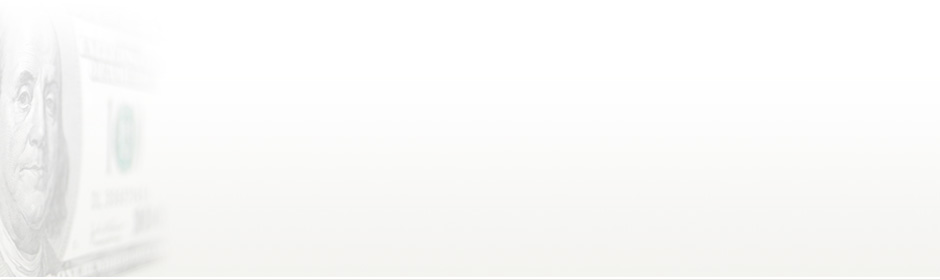
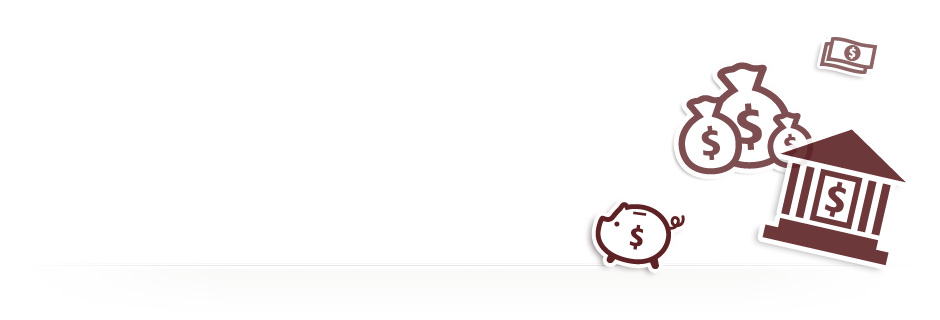
new 2012 changes

diff --git a/media/styles/clearspending.css b/media/styles/clearspending.css
@@ -7,10 +7,10 @@
 body,div,dl,dt,dd,ul,ol,li,h1,h2,h3,h4,h5,h6,pre,form,fieldset,input,textarea,optgroup,button,p,blockquote,th,td{margin:0;padding:0;}h1,h2,h3,h4,h5,h6{font-size:100%;font-weight:normal;}table{border-collapse:collapse;border-spacing:0;}caption,th{text-align:left;}ol,ul{list-style:none;}fieldset,img{border:0;}input,textarea,select,optgroup,option,button{font-family:inherit;font-size:100%;}button,input {width: auto;overflow: visible;}optgroup,address,caption,cite,code,dfn,em,strong,th,var{font-style:normal;font-weight:normal;}q:before,q:after{content:'';}abbr,acronym {border:0;}
 dl li{list-style: none;}
 
-a:link { outline: none; color: #68a31d; font-weight: bold; text-decoration: none;}
-a:visited { outline: none; color: #68a31d; font-weight: bold; text-decoration: none;}
-a:hover { outline: none; color: #636466; font-weight: bold; text-decoration: none;}
-a:active { outline: none; color: #68a31d; font-weight: bold; text-decoration: none;}
+a:link { outline: none; color: #dec703; font-weight: bold; text-decoration: none;}
+a:visited { outline: none; color: #dec703; font-weight: bold; text-decoration: none;}
+a:hover { outline: none; color: #cbb102; font-weight: bold; text-decoration: none;}
+a:active { outline: none; color: #dec703; font-weight: bold; text-decoration: none;}
 
 body {
 	color: #6C6764;
@@ -19,47 +19,54 @@ body {
 }
 
 .clear { clear: both;}
+.clearfix { clear: right; }
 
 p#shortedText { width: 580px;}
 
 #pageBackground { width: 100%; background: #F8F6EC url(../images/below_green_bg.png) top left repeat-x; border-bottom: 23px solid #7B614E; padding: 30px 0 50px; }
 
-h2 { width: 268px; height: 44px; margin-bottom: 25px; }
-h2 a { background: url(../images/clearspending-logo.png) top left no-repeat; width: 311px; height: 52px; display: block; text-indent: -9999em; }
+h2 { width: 354px; height: 59px; margin-bottom: 20px; padding-top: 35px; float: left; }
+h2 a { background: url(../images/logo.png) top left no-repeat; width: 354px; height: 59px; display: block; text-indent: -9999em; }
 
-#contentWrapper #mainContainer { width: 940px; background: #FFF; border-radius: 6px; -moz-border-radius: 6px; -webkit-border-radius: 6px; margin: -90px auto 80px; border: 1px solid #ddd7d7; padding: 0;}
+#contentWrapper #mainContainer { width: 940px; margin: 0 auto 80px; padding: 0;}
 #pageMain { margin: 35px 25px 50px; }
 
-#header { width: 940px; margin: 0 auto;}
+#header { width: 940px; margin: 0 auto; margin-bottom: 50px; }
 
-#ltColumn, .ltColumn { width: 565px; margin-right: 30px; float: left;}
-#rtColumn, .rtColumn { width: 265px; margin-left: 30px; float: left;}
+.module { margin-bottom: 50px; }
 
-#nav { width: 940px; height: 35px; background: #85BE3D url(../images/bg_nav.jpg) bottom left repeat-x; -moz-border-radius-topleft: 5px; -moz-border-radius-topright: 5px; -webkit-border-top-left-radius: 5px; -webkit-border-top-right-radius: 5px;}
-#nav li {  float: left;  text-transform: uppercase; width: 115px;}
-#nav li a { color: #F8F6EC; text-decoration: none; font-weight: normal; padding: 8px 0; display: block; text-align: center; width: 115px;}
-#nav li a:hover, body.scorecard #nav li#scorecard a, body.background #nav li#background a, body.analysis #nav li#analysis a, body.methodology #nav li#methodology a, body.media #nav li#media a, body.corrections #nav li#corrections a, body.resources #nav li#resources a, body.feedback #nav li#feedback a, body.summary #nav li#summary a  { color: #fff; background: url(../images/nav_arrow.png) center 27px no-repeat; font-weight: bold; padding: 9px 0 7px;}
+#ltColumn, .ltColumn { width: 555px; margin-right: 25px; float: left;}
+#rtColumn, .rtColumn { width: 285px; margin-left: 25px; float: left;}
 
-#featureBox { background: url(../images/bg_featureBox.jpg) bottom left no-repeat; padding-top: 35px; margin-bottom: 65px;}
-#featureNumber { color: #80C2D6; margin-left: 50px; font-size: 400%; font-weight: bold; display: block; line-height: 50px;}
-#featureTitle { color: #9ec9d6; font-size: 150%; margin-left: 425px; margin-top: -5px; display: block; margin-bottom: 35px;}
-#featureBody { margin-left: 175px;}
+#nav { width: 940px; height: 35px; background: #85BE3D url(../images/bg_nav.jpg) bottom left repeat-x; }
+#nav li {  float: left;  text-transform: uppercase; padding: 0 20px; background: url(../images/bg_navLine.png) right 5px no-repeat; }
+#nav li.last { background: none; }
+#nav li a { color: #F8F6EC; text-decoration: none; font-weight: normal; padding: 8px 0; display: block; text-align: center; }
+#nav li:hover, #nav li:hover a, body.scorecard #nav li#scorecard, body.scorecard #nav li#scorecard a, body.background #nav li#background, body.background #nav li#background a, body.analysis #nav li#analysis, body.analysis #nav li#analysis a, body.methodology #nav li#methodology, body.methodology #nav li#methodology a,  body.media #nav li#media, body.media #nav li#media a, body.corrections #nav li#corrections, body.corrections #nav li#corrections a, body.resources #nav li#resources, body.resources #nav li#resources a, body.feedback #nav li#feedback, body.feedback #nav li#feedback a, body.summary #nav li#summary, body.summary #nav li#summary a  { color: #5e9913; background-color: #fff; }
 
-#featureBox h3 { margin-bottom: 15px;}
-#featureBox p { font-size: 115%; line-height: 23px; padding-right: 30px; padding-bottom: 20px; margin-bottom: 0;}
+#subnav { border-bottom: 1px solid #f3f2f2; }
+#subnav li { padding: 12px 20px 8px; float: left;  }
+#subnav li a { color: #807c77; font-weight: normal;  }
+#subnav li:hover a { color: #807c77; font-weight: bold;  }
+#subnav li:hover { border-bottom: 3px solid #f3f2f2;  }
+
+#featureBox { background: url(../images/bg_featureBox.jpg) center bottom no-repeat; min-height: 320px; }
+#featureBox h3 { margin-bottom: 15px; color: #645253; font-size: 380%; line-height: 50px; }
+#featureBox h3 span { display: block; font-weight: 700; }
+#featureBox p { font-size: 135%; line-height: 30px; padding-right: 30px; margin-bottom: 100px; color: #9a9592; }
+
+#scorecardPromo { background: url(../images/bg_scorecardPromo.jpg) top left no-repeat; padding: 50px 10px 0; text-align: center; height: 240px; }
+#scorecardPromo a { background: url(../images/btn_viewScorecard.png) center top no-repeat; width: 252px; height: 66px; margin: 0 auto;   }
 
 a#scorecardBtn { display: block; width: 322px; height: 45px; background: url(../images/btn_results.png) top left no-repeat; text-indent: -9999em; position: relative; top: 20px;}
 
-h3 { color: #43413f; font-size: 180%; margin-bottom: 20px; text-transform: uppercase; line-height: 28px;}
+h3 { color: #645253; font-size: 200%; margin-bottom: 25px; line-height: 30px; }
+h4 { font-size: 170%; line-height: 28px; font-weight: normal; margin-bottom: 20px; }
 #summary h3 { text-transform: none;}
 #homeltColumn h3, #homertColumn h3  { text-transform: capitalize;}
 
-h4 { color: #636466; font-size: 130%; font-weight: bold; line-height: 130%; margin-bottom: 15px; margin-top:25px;}
 #rtColumn h4 { margin-top: 0px;}
 h5 { margin-bottom: 10px; font-weight: bold; color: #636466;}
-
-#homeltColumn { width: 345px; margin-right: 25px; float: left;}
-#homertColumn { float: left; width: 495px; margin-left: 25px;}
 
 #reporting { background: url(../images/header_reporting.jpg) top center no-repeat; padding-top: 55px; margin-bottom: 40px;}
 #metrics { background: url(../images/header_metrics.jpg) top center no-repeat; padding-top: 55px;}
@@ -107,7 +114,7 @@ span#keyTitle, ul#bottom-legend { float: left;}
 span#keyTitle { padding-top:2px; font-weight: bold; margin-right: 10px;}
 #agencyKey { margin-top: 15px;}
 
-.tip { font-family: Georgia, Times, "Times New Roman", serif; font-style: oblique; font-size: 95%;}
+.tip { font-family: Georgia, Times, "Times New Roman", serif; font-style: oblique; font-size: 95%; margin-bottom: 20px; }
 
 #graph { float: left; }
 .graph { float: left; }
@@ -173,7 +180,7 @@ th..headerSortUp:nth-child(1), th.headerSortUp:nth-child(2) { background: url(..
 #pageMain a.name:hover { text-decoration: underline; }
 
 /*buttons*/
-button { text-indent: -9999em; display: block; height: 45px; cursor: pointer; border: none;}
+button, .textReplace { text-indent: -9999em; display: block; height: 45px; cursor: pointer; border: none;}
 .submit { width: 124px; background: url(../images/btn_submit.jpg) top left no-repeat; margin-left: 120px; margin-top: 30px;}
 .okBtn { width: 50px; height: 33px; background: url(../images/btn_ok.jpg) top left no-repeat; margin-right: 25px; margin-top: 25px;}
 .noShowBtn { width: 159px; height: 33px; background: url(../images/btn_dontShow.jpg) top left no-repeat; margin-top: 25px;}
@@ -280,7 +287,7 @@ ol#cite li { margin-bottom: 2px;  }
 #summary .legend li { display: inline-block; text-align: center; margin: 5px 0 5px 15px;}
 #summary img { margin-top: 20px;}
 
-#updated { text-indent: -9999em; display: block; background: url(../images/img_updated.png); width: 90px; height: 90px; position: relative; top: -100px; left: 340px; }
+#updated { text-indent: -9999em; display: block; background: url(../images/bg_2012badge.png); width: 127px; height: 105px; float: right; margin-top: -30px}
  
 .spendingOverTime img { float: left; margin-right: 15px;}
 #summary .spendingOverTime .legend { float: left; width: 120px; margin-top: 25px; }

diff --git a/templates/base.html b/templates/base.html
@@ -11,6 +11,8 @@
     <script type="text/javascript" src="{{ STATIC_URL }}scripts/jquery.tablesorter.min.js"></script>
     <script type="text/javascript" src="{{ STATIC_URL }}scripts/jquery.cookie.js"></script>
     <script type="text/javascript" src="{{ STATIC_URL }}scripts/clearspending.js"></script>
+    <script type="text/javascript" src="//use.typekit.net/ktu4xpo.js"></script>
+    <script type="text/javascript">try{Typekit.load();}catch(e){}</script>
     <!-- added by timball  Tue Sep  7 15:12:38 UTC 2010 -->
    <script type="text/javascript">
 
@@ -51,10 +53,8 @@
 <div id="contentWrapper">
     <div id="header">
         <h2><a href="{% url clearspending-index %}"><big>Clearspending</big><small>Making Sense of the Federal Checkbook</small></a></h2>
-        <div id="updated">Updated for 2011!</div>
-    </div>
-    <div id="mainContainer">
-        <div id="nav">
+        <span id="updated">2012 Report</span>
+        <div id="nav" class="clear">
             <ul>
                 <li id="summary"><a href="{%url summary %}">Summary</a></li>
                 <li id="scorecard"><a href="{% url scorecard-index %}">Scorecard</a></li>
@@ -63,47 +63,40 @@
                 <li id="methodology"><a href="{% url methodology %}">Methodology</a></li>
                 <li id="media"><a href="{% url media-index %}">Media</a></li>
                 <li id="resources"><a href="{% url resources %}">Resources</a></li>
-                <li id="feedback"><a href="{% url feedback %}">Feedback</a></li>
+                <li class="last" id="feedback"><a href="{% url feedback %}">Feedback</a></li>
             </ul>
         </div>
-
+        <div id="subnav" class="clear">
+            <ul>
+                <li><a href="#">subnav #1</a></li>
+                <li><a href="#">subnav #1</a></li>
+                <li><a href="#">subnav #1</a></li>
+            </ul>    
+        </div>    
+    </div>
+    <div id="mainContainer" class="clear">
             {% block content %}
             {% endblock content %}
     </div>
-<footer id="mainFooter"> 
-                <div id="footerContent"> 
-                        <div id="contact"> 
-                            <h2>Contact Us</h2> 
-                            <address class="vcard"> 
-                                <span class="fn org"> 
-                                    <a href="http://sunlightfoundation.com" class="url">Sunlight Foundation</a> 
-                                </span> 
-                                <span class="adr"> 
-                                    <span class="street-address">1818 N Street NW</span> 
-                                    <span class="extended-address">Suite 300</span> 
-                                    <span class="locality">Washington</span>,
-                                    <span class="region" title="District of Columbia">DC</span> 
-                                    <span class="postal-code">20036</span> 
-                                </span> 
-                            <span class="tel">202-742-1520</span> 
-                                <a href="callto:+12027421520" class="tel-skype">Call with Skype</a> 
-                            </address> 
-                    </div> 
-                    <div id="aboutSunlight"> 
-                            <h2>About Sunlight</h2> 
-                            <ul> 
-                                <li><a href="/about/">Our Mission</a></li> 
-                                <li><a href="/about/board/">Board &amp; Advisory Board</a></li> 
-                                <li><a href="/about/funding/">How We're Funded</a></li> 
-                                <li><a href="/people/">Our Team</a> and <a href="/jobs/">Jobs</a></li> 
-                            </ul> 
-                        </div> 
-                        <div id="privacyPolicy"> 
-                                <p>Our <a href="/legal/privacy/">privacy policy</a> details how personally identifiable information that is collected on our web sites is handled. Read our <a href="/legal/terms/">terms of service</a>.</p> 
-                            <p>This work by <a href="http://sunlightfoundation.com">Sunlight Foundation</a>, unless <a href="/colophon/">otherwise noted</a>, is licensed under a <a rel="license" href="http://creativecommons.org/licenses/by/3.0/us/">Creative Commons Attribution 3.0 United States License</a>.</p> 
-                        </div> 
-                        <div class="clear"></div> 
-                </div> 
-            </footer>
+    <div class="sf-footerWrapper">
+        <div class="sf-footer container">
+            <div class="row">
+                <div class="span6 signup span-divider">
+                    <h4>Like this Project and Want to Discover Others Like It?</h4>
+                    <span class="tip">Join the Sunlight Foundation's open government community to learn more</span>
+                    <form action="/subscribe/" method="post" id="sfapp-subscribe-form" class="form-inline">
+                        {% csrf_token %}
+                        <input type="text" name="email" placeholder="your email address">
+                        <input type="text" name="zipcode" placeholder="your zip code">
+                        <button type="submit" class="btn btn-sunlight">Sign Up</button>
+                    </form>
+                </div>
+                <div class="span6 terms">
+                    <p>Our <a href="http://sunlightfoundation.com/legal/privacy/">privacy policy</a> details how personally identifiable information that is collected on our web sites is handled. Read our <a href="http://sunlightfoundation.com/legal/terms/">terms of service</a>.</p>
+                    <p>This work by <a href="http://sunlightfoundation.com">Sunlight Foundation</a>, unless <a href="http://sunlightfoundation.com/colophon/">otherwise noted</a>, is licensed under a <a href="http://creativecommons.org/licenses/by/3.0/us/">Creative Commons Attribution 3.0 United States License</a>.</p>
+                </div>
+            </div>
+        </div>
+    </div>
 </div>
 </body></html>

diff --git a/templates/index.html b/templates/index.html
@@ -1,52 +1,38 @@
 {% extends "base.html" %}
 {% block content %}
 <div id="featureBox">
-    <span id="featureNumber">$1,306,120,795,761</span>
-    <span id="featureTitle">Broken Spending Reporting in 2010</span>
-    <div id="featureBody">
-        <h3>How Reliable is USASpending.gov?</h3>
-        <p>We've taken data from other federal reporting systems and compared it with the data found in USASpending.gov across three categories: <strong>Consistency</strong>, <strong>Completeness</strong> and <strong>Timeliness</strong>. How close are the reported dollar amounts to the yearly estimates? How many of the required fields are filled out in each record? And how long did it take the agency to report the money once it was allocated to a project?</p>
-        <a id="scorecardBtn" href="{% url summary %}">Results Summary</a>
-    </div>
-</div>
-<div id="pageMain">
-    <div id="homeltColumn">
-        <div id="reporting">
-            <h3>How does the federal government report its spending?</h3>
-            <p>The flow of federal spending reporting can get complicated. We've tried to simplify it for you with a <a href="{% url animation %}">step-by-step visualization</a>.</p> 
-        </div>
-        <div id="metrics">
-            <h3>Our Metrics</h3>
-            <p class="no-border">How did we conduct our analysis and what assumptions did we make? What limitations exist with the comparison data we're using? We measured the data across three categories:</p>
-            <ul>
-                <li><strong>Consistency</strong>: A comparison of CFDA obligations and USASpending.gov obligations.</li>
-                <li><strong>Completeness</strong>: A measure of how many required fields are completed. </li>
-                <li><strong>Timeliness</strong>: A measure of how quickly obligations were reported.</li>
-            </ul>
-           <p class="no-border">See our <a href="{% url methodology %}">methodology</a> for more information.</p>
-        </div>
-    </div>
-    <div id="homertColumn">
-        <div id="important">
-            <h3>Top Programs</h3>
-            <p class="no-border">The following are some of the top programs that report well across all three metrics:</p>
-            <ul>
-                <li><a href="/clearspending/program/722/dollars/">Violence Against Women Act Court Training and Improvement Grants</a></li>
-                <li><a href="/clearspending/program/1376/dollars/">Special Education Grants for Infants and Families</a></li>
-                <li><a href="/clearspending/program/1374/dollars/">Special Education Preschool Grants</a></li>
-                <li><a href="/clearspending/program/1315/dollars/">Energy Efficient Appliance Rebate Program</a></li>
-                <li><a href="/clearspending/program/34/dollars/">Cooperative Forestry Research</a></li>
-                <li><a href="/clearspending/program/35/dollars/">Payments to Agricultural Experiment Stations</a></li>
-                <li><a href="/clearspending/program/1241/dollars/">State Senior Environmental Employment Programs</a></li>
-                <li><a href="/clearspending/program/1385/dollars/">Even Start</a></li>
-                <li><a href="/clearspending/program/65/dollars/">Specialty Crop Research Initiative</a></li>
-                <li><a href="/clearspending/program/1417/dollars/">Civic Education Cooperative Education Exchange Program</a></li>
-
-            </ul>
-			<em><a style="float:right;" href="{% url list-best-programs 2010 %}">See all top programs &raquo;</a></em>
-        </div>    
+    <div id="ltColumn">
+        <h3>Keeping Tabs on <span>USASpending.gov</span></h3>
+        <p>We've taken data from other federal reporting systems and compared it with the data found in USASpending.gov across three categories: Consistency, Completeness and Timeliness. How close are the reported dollar amounts to the yearly estimates? How many of the required fields are filled out in each record? And how long did it take the agency to report the money once it was allocated to a project?</p>
     </div>
     <div class="clear"></div>
+</div>
+<div id="pageMain">
+    <div class="module">
+        <h3>Federal Waste by Metric</h3>
+    </div>
+    <div class="ltColumn">
+        <div class="module">
+            <h3>Types of Federal Spending</h3>
+        </div>
+        <div class="module">
+            <h3>On-Time Spending Over Time</h3>
+        </div>
+    </div>
+    <div class="rtColumn">
+        <div class="module" id="scorecardPromo">
+            <h4>See how Government Agencies Measure Up</h4>
+            <a class="textReplace" href="#">View our Scorecard</a>
+        </div>
+        <div class="module">
+            <h4>Download Previous Reports</h4>
+            <ul>
+                <li><a href="#">2010 Spending Report</a></li>
+                <li><a href="#">2010 Spending Report</a></li>
+                <li><a href="#">2010 Spending Report</a></li>
+            </ul>    
+        </div>
+    </div>
 </div>
 
 </div>

diff --git a/media/styles/footer.css b/media/styles/footer.css
@@ -1,24 +1,47 @@
-#footerContent { padding: 0 10px; width: 940px; margin: 0 auto;}
-#mainFooter { background: url(http://assets.sunlightfoundation.com/site/4.0/images/footer.jpg) bottom center repeat-x; color: #c7c2c2; height: 176px; padding: 35px 0 0; margin-top: 0; border: none;}
-#contact, #aboutSunlight { float: left; width: 200px; margin-right: 30px; padding-right: 30px; border-right: 1px dashed #5c5755; height: 155px; font-size: 115%;}
-#privacyPolicy { font-family: Georgia, "Times New Roman", Times, serif; font-style: oblique; font-size: 98%; line-height: 17px; float: left; width: 400px;}
-#mainFooter h2 { font-size: 119%; margin-bottom: 10px; color: #fcfcfc; font-weight: normal; text-transform:uppercase; line-height:22px; height: auto; width: auto; }
-#mainFooter a:link, footer a:active, footer a:visited { color: #c7c2c2; font-weight: normal; text-decoration:underline; }
-#mainFooter a:hover { color: #fcfcfc; }
-#mainFooter span.gc-cs-link { color: #C7C2C2; }
-#aboutSunlight li { margin-bottom: 10px;}
-#aboutSunlight, address { line-height: 22px; }
+.sf-footerWrapper { background-color: #fafaf7; border-top: 1px solid #ece9e9; margin-top: 70px; padding-top: 50px; min-height: 220px;}
+.sf-footer { color: #9f9a97;}
+.sf-footer h4 { font-size: 170%; color: #9f9a97; margin-bottom: 0.5em; line-height: 27px; text-transform: normal; font-family: Georgia, 'Times New Roman', Times, serif; font-weight: normal; }
+.sf-footer .tip { color: #9f9a97;}
 
-.adr { display: block; margin-bottom: 8px;}
-.org { font-size: 110%; margin-bottom: 5px; display: block;}
-footer { padding: 20px; margin-top: 20px; background-color: #f3f2e9; -moz-border-radius: 5px; -webkit-border-radius: 5px; border: 1px solid #e5e4db;}
-
-.tel-skype {
-    background: url(../images/icons/16/skype.png) left 2px no-repeat;
-    display: inline-block;
-    height: 16px;
-    width: 16px;
-    text-indent: -9999em;
-    padding-bottom:2px;
+.sf-footer .span-divider {
+    border-right: 1px dashed #e8e6de;
+    margin-right: -1px;
+    padding-left: 0;
 }
 
+.hero-unit { padding: 40px; border: 1px solid #d6d3d3; border-radius: 0;}
+.withBorder { border: 1px solid #F0EDED; }
+
+.sf-footer .tip { margin-bottom: 20px; display: block;  }
+
+.terms { margin-top: 30px; }
+
+.sf-footer div.terms p{
+    font-family: Georgia, 'Times New Roman', Times, serif;
+    font-size: 95%;
+    font-style: oblique;
+    line-height: 18px;
+}
+
+#sfapp-subscribe-form li { float: left; margin-right: 10px; }
+#sfapp-subscribe-form input[name=email] { width: 140px; }
+#sfapp-subscribe-form input[name=zipcode] { width: 95px; }
+#sfapp-subscribe-form input { border: 2px solid #E7E4DC; height: 18px; padding: 4px;margin-bottom: 9px; -webkit-border-radius: 3px; -moz-border-radius: 3px; border-radius: 3px;}
+
+.span6 { width: 460px; float: left; padding-left: 20px;  }
+
+.btn, .btn:link, .btn:active, .btn:visited {
+    color: #333;
+    border: 3px solid #e9e8e3;
+    font-family: "Georgia", "Times New Roman", "Times", serif;
+    font-style: normal;
+    font-weight: normal;
+    padding: 4px 15px 4px;
+    -webkit-border-radius: 6px;
+       -moz-border-radius: 6px;
+        -ms-border-radius: 6px;
+         -o-border-radius: 6px;
+            border-radius: 6px;
+    text-indent: 0;
+    color: #fff;
+}
